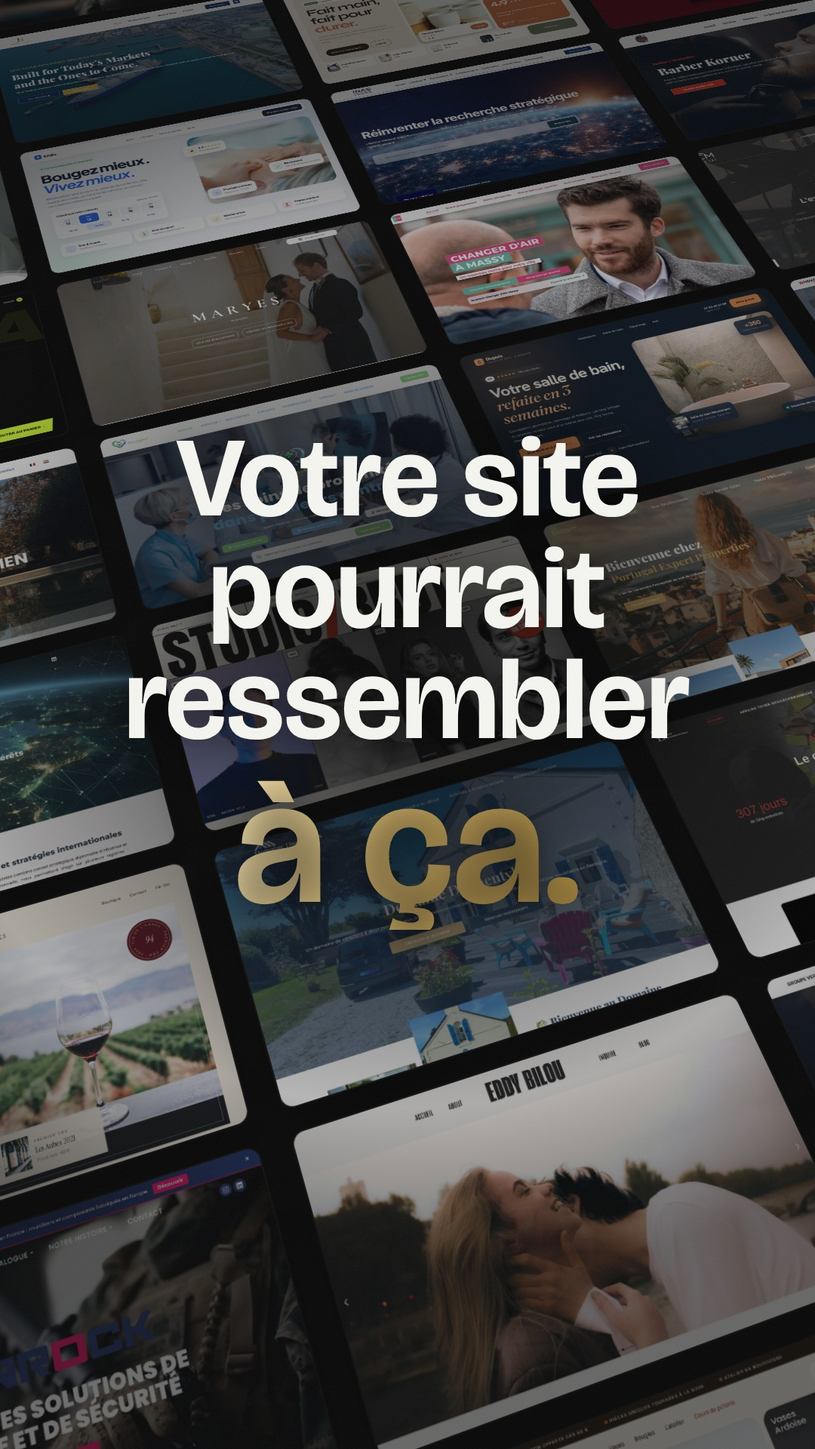
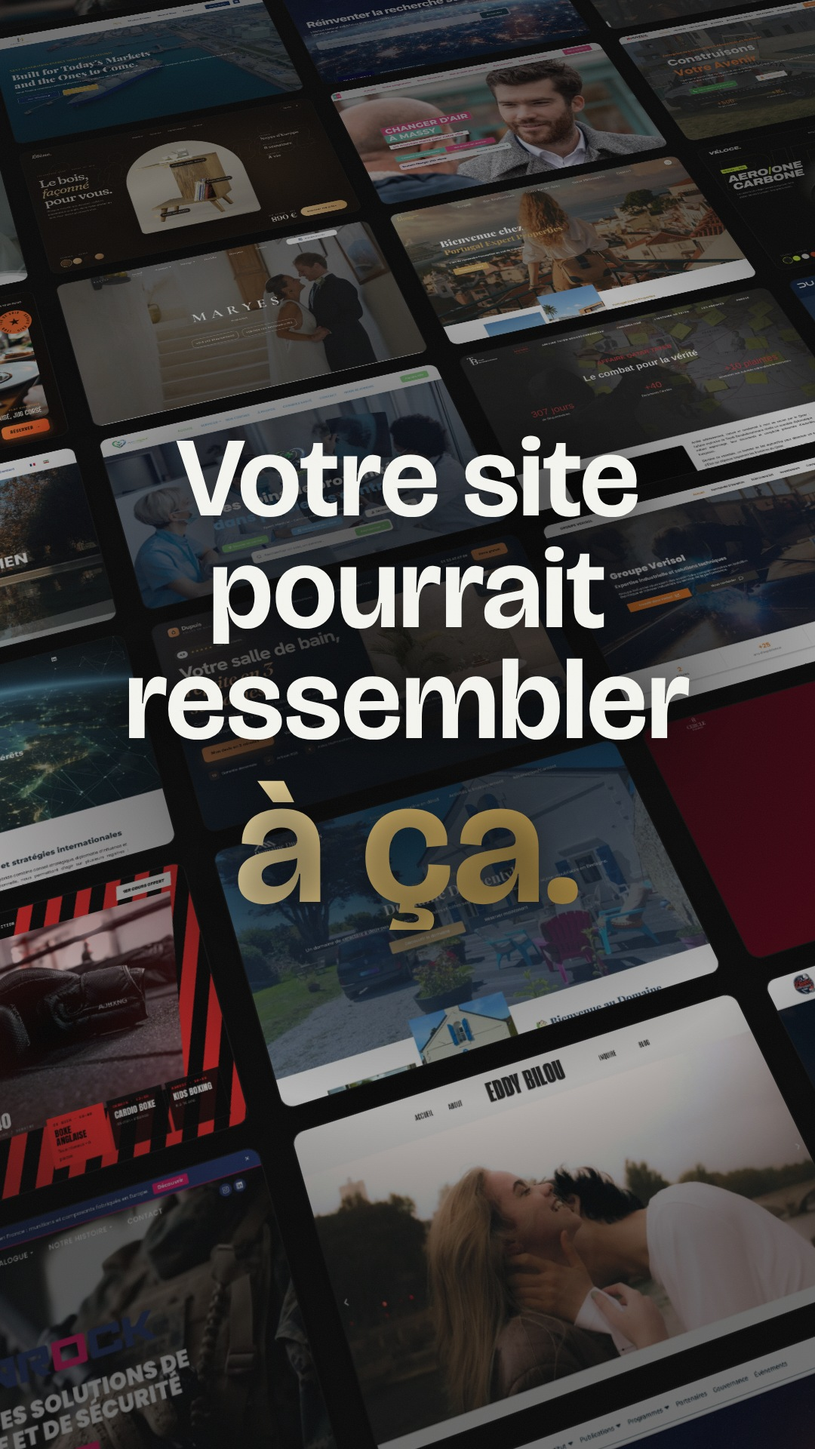
Vidéo réalisations V4 : accroche mur de sites puis 6 focus (Véloce, Monolithe, Valmont, Braise, Uppercut, Ébène)
Claude-Session: https://claude.ai/code/session_01QEecSGPaSS2i4pfHtVUcyd

diff --git a/aurea-media/creations/video-realisations/sites/monolithe.html b/aurea-media/creations/video-realisations/sites/monolithe.html
@@ -1,0 +1,67 @@
+<!doctype html>
+<html lang="fr"><head><meta charset="utf-8"><meta name="viewport" content="width=device-width,initial-scale=1">
+<title>Monolithe · Construction et gros œuvre</title>
+<!-- Concept fictif créé par Aurea Media. Typo : Syncopate (capitales larges) + Barlow + IBM Plex Mono. -->
+<link href="https://fonts.googleapis.com/css2?family=Syncopate:wght@400;700&family=Barlow:wght@400;500;600;700&family=IBM+Plex+Mono:wght@400;500&display=block" rel="stylesheet">
+<style>
+:root{--beton:#0E0F10;--orange:#FF5A1F;--gris:#9AA0A6;--blanc:#F2F1EE}
+*{box-sizing:border-box;margin:0;padding:0}
+body{background:var(--beton);color:var(--blanc);font:400 15px/1.5 Barlow,sans-serif;-webkit-font-smoothing:antialiased;overflow:hidden;height:100vh;position:relative}
+.mono{font-family:"IBM Plex Mono",monospace}
+.fond{position:absolute;inset:0}
+.fond img{width:100%;height:100%;object-fit:cover;object-position:60% 50%;filter:saturate(1.1) contrast(1.05)}
+.fond:after{content:"";position:absolute;inset:0;background:linear-gradient(90deg,rgba(14,15,16,.96) 0%,rgba(14,15,16,.78) 34%,rgba(14,15,16,.12) 62%,rgba(14,15,16,.35) 100%),linear-gradient(0deg,rgba(14,15,16,.9),rgba(14,15,16,0) 30%)}
+.trame{position:absolute;inset:0;background-image:linear-gradient(rgba(255,255,255,.05) 1px,transparent 1px),linear-gradient(90deg,rgba(255,255,255,.05) 1px,transparent 1px);background-size:48px 48px;-webkit-mask-image:linear-gradient(90deg,transparent 40%,#000 70%)}
+nav{position:relative;z-index:3;display:flex;align-items:center;justify-content:space-between;padding:26px 48px;border-bottom:1px solid rgba(242,241,238,.12)}
+.logo{display:flex;align-items:center;gap:14px;font:700 21px/1 Syncopate;letter-spacing:.12em}
+.logo i{width:26px;height:26px;background:var(--orange);clip-path:polygon(0 100%,50% 0,100% 100%)}
+nav ul{display:flex;gap:34px;list-style:none;font:600 13px Barlow;letter-spacing:.16em;text-transform:uppercase;color:#cfd2d5}
+.devis{height:48px;padding:0 22px;background:var(--orange);color:#120700;display:flex;align-items:center;gap:10px;font:700 13px Barlow;letter-spacing:.14em;text-transform:uppercase}
+.contenu{position:relative;z-index:3;padding:70px 48px 0;width:700px}
+.ref{display:flex;align-items:center;gap:12px;font:500 12px "IBM Plex Mono";letter-spacing:.12em;color:var(--orange)}
+.ref:before{content:"";width:40px;height:2px;background:var(--orange)}
+h1{font:700 64px/1.02 Syncopate;letter-spacing:-.01em;text-transform:uppercase;margin:26px 0 26px}
+h1 b{color:var(--orange);font-weight:700}
+.contenu p{font-size:18px;color:#c3c7cb;max-width:500px}
+.actions{display:flex;gap:12px;margin-top:34px}
+.btn{height:60px;padding:0 28px;display:flex;align-items:center;gap:12px;font:700 14px Barlow;letter-spacing:.14em;text-transform:uppercase;background:var(--blanc);color:var(--beton)}
+.btn.l{background:transparent;color:var(--blanc);border:1.5px solid rgba(242,241,238,.4)}
+/* cotes d'architecte posées sur la photo */
+.cote{position:absolute;z-index:2;font:500 12px "IBM Plex Mono";color:var(--blanc);letter-spacing:.08em}
+.cote.h{height:1.5px;background:var(--orange)}.cote.h:before,.cote.h:after{content:"";position:absolute;top:-7px;width:1.5px;height:16px;background:var(--orange)}.cote.h:before{left:0}.cote.h:after{right:0}
+.cote.h span{position:absolute;left:50%;top:-26px;transform:translateX(-50%);background:var(--beton);padding:2px 8px}
+.cote.v{width:1.5px;background:var(--orange)}.cote.v:before,.cote.v:after{content:"";position:absolute;left:-7px;width:16px;height:1.5px;background:var(--orange)}.cote.v:before{top:0}.cote.v:after{bottom:0}
+.cote.v span{position:absolute;top:50%;left:12px;transform:translateY(-50%);background:var(--beton);padding:2px 8px;white-space:nowrap}
+.pt{position:absolute;z-index:3;display:flex;align-items:center;gap:10px;font:500 12px "IBM Plex Mono";letter-spacing:.06em;text-transform:uppercase}
+.pt i{width:18px;height:18px;border:2px solid var(--orange);border-radius:50%;display:grid;place-items:center}
+.pt i:after{content:"";width:6px;height:6px;border-radius:50%;background:var(--orange)}
+.pt span{background:rgba(14,15,16,.85);border:1px solid rgba(242,241,238,.15);padding:6px 10px}
+.bas{position:absolute;z-index:3;left:0;right:0;bottom:0;display:grid;grid-template-columns:repeat(4,1fr) 1.3fr;border-top:1px solid rgba(242,241,238,.14);background:rgba(14,15,16,.7);backdrop-filter:blur(10px)}
+.bas div{padding:20px 28px;border-right:1px solid rgba(242,241,238,.1)}
+.bas small{display:block;font:500 11px "IBM Plex Mono";letter-spacing:.12em;color:var(--gris);text-transform:uppercase}
+.bas b{font:700 30px/1.2 Syncopate}
+.bas .projet{display:flex;align-items:center;gap:14px;border:0}
+.bas .projet img{width:86px;height:56px;object-fit:cover}
+.bas .projet b{font:600 17px Barlow;display:block}
+@media (max-width:600px){
+  nav{padding:16px 18px}nav ul{display:none}.logo{font-size:15px}.devis{height:40px;padding:0 14px;font-size:11px}
+  .fond img{object-position:68% 50%}.fond:after{background:linear-gradient(0deg,rgba(14,15,16,.98) 38%,rgba(14,15,16,.3) 70%,rgba(14,15,16,.6))}
+  .contenu{width:auto;padding:330px 18px 0}h1{font-size:30px;margin:16px 0 14px}.contenu p{font-size:15px}.actions{margin-top:20px}.btn.l{display:none}.btn{height:52px}
+  .cote,.pt{display:none}.bas{grid-template-columns:1fr 1fr}.bas div:nth-child(n+3){display:none}.bas div{padding:14px 18px}.bas b{font-size:20px}
+}
+</style></head><body>
+<div class="fond"><img src="photos/mono-hero.webp" alt=""></div><div class="trame"></div>
+<nav><div class="logo"><i></i>MONOLITHE</div><ul><li>Réalisations</li><li>Savoir-faire</li><li>Process</li><li>Carrières</li></ul><a class="devis">Étude gratuite →</a></nav>
+<div class="cote h" style="left:860px;top:250px;width:520px"><span>18,40 m</span></div>
+<div class="cote v" style="left:1330px;top:300px;height:330px"><span>7,20 m</span></div>
+<div class="pt" style="left:940px;top:420px"><i></i><span>Béton bas carbone</span></div>
+<div class="pt" style="left:1130px;top:560px"><i></i><span>Baies alu 4 m</span></div>
+<div class="pt" style="left:820px;top:640px"><i></i><span>RE2020 · A+</span></div>
+<section class="contenu">
+  <div class="ref">GROS ŒUVRE · MAISONS D'ARCHITECTE · HAUTE-SAVOIE</div>
+  <h1>On bâtit<br>ce qui <b>dure.</b></h1>
+  <p>Terrassement, structure, maçonnerie et clos-couvert. Une seule équipe, un planning tenu et des finitions dignes d'un architecte.</p>
+  <div class="actions"><a class="btn">Lancer mon projet →</a><a class="btn l">Voir 120 chantiers</a></div>
+</section>
+<div class="bas"><div><small>Fondée en</small><b>1998</b></div><div><small>Chantiers livrés</small><b>120+</b></div><div><small>Délais tenus</small><b>97 %</b></div><div><small>Garantie</small><b>10 ans</b></div><div class="projet"><img src="photos/mono-2.webp" alt=""><div><small>Projet en cours · 07/24</small><b>Villa Lumen · Annecy</b></div></div></div>
+</body></html>

diff --git a/aurea-media/creations/video-realisations/sites/ebene.html b/aurea-media/creations/video-realisations/sites/ebene.html
@@ -1,0 +1,59 @@
+<!doctype html>
+<html lang="fr"><head><meta charset="utf-8"><meta name="viewport" content="width=device-width,initial-scale=1">
+<title>Ébène · Atelier d'ébénisterie sur mesure</title>
+<!-- Concept fictif créé par Aurea Media. Typo : Fraunces (variable, « soft ») + Karla + Overpass Mono. -->
+<link href="https://fonts.googleapis.com/css2?family=Fraunces:ital,opsz,wght,SOFT,WONK@0,9..144,300..900,0..100,0..1;1,9..144,300..900,0..100,0..1&family=Karla:wght@400;500;700&family=Overpass+Mono:wght@400;600&display=block" rel="stylesheet">
+<style>
+:root{--noyer:#16100C;--noyer2:#22180F;--laiton:#C99A5B;--laiton2:#E9C48A;--creme:#F1E7D8;--mute:#9C8B78}
+*{box-sizing:border-box;margin:0;padding:0}
+body{background:radial-gradient(1000px 700px at 62% 48%,#3a2717 0%,var(--noyer) 62%);color:var(--creme);font:400 15px/1.55 Karla,sans-serif;-webkit-font-smoothing:antialiased;overflow:hidden;height:100vh;position:relative}
+.fr{font-family:Fraunces,serif;font-variation-settings:"SOFT" 100,"WONK" 1}
+.geant{position:absolute;left:0;right:0;top:120px;text-align:center;font:900 330px/.8 Fraunces;font-variation-settings:"SOFT" 100,"WONK" 1;font-style:italic;color:transparent;-webkit-text-stroke:1.5px rgba(201,154,91,.28);white-space:nowrap}
+nav{position:relative;z-index:4;display:flex;align-items:center;justify-content:space-between;padding:26px 52px}
+.logo{font:600 32px/1 Fraunces;font-variation-settings:"SOFT" 100,"WONK" 1;font-style:italic;letter-spacing:-.02em}
+.logo span{color:var(--laiton)}
+nav ul{display:flex;gap:32px;list-style:none;font:500 14px Karla;color:#d6c8b4}
+.panier{font:600 13px "Overpass Mono";border:1px solid rgba(201,154,91,.5);padding:10px 16px;border-radius:999px}
+.meuble{position:absolute;z-index:2;left:50%;top:140px;width:560px;height:620px;transform:translateX(-50%);border-radius:300px 300px 24px 24px;overflow:hidden;box-shadow:0 60px 120px rgba(0,0,0,.6),0 0 0 1px rgba(201,154,91,.3)}
+.meuble img{width:100%;height:100%;object-fit:cover;filter:sepia(.25) saturate(1.1) brightness(.98)}
+.meuble:after{content:"";position:absolute;inset:0;background:linear-gradient(160deg,rgba(255,220,170,.18),transparent 40%,rgba(22,16,12,.35))}
+.pt{position:absolute;z-index:3;display:flex;align-items:center;gap:10px;font:600 12px "Overpass Mono";letter-spacing:.04em}
+.pt i{width:14px;height:14px;border-radius:50%;background:var(--laiton2);box-shadow:0 0 0 6px rgba(233,196,138,.22),0 0 18px var(--laiton2)}
+.pt span{background:rgba(22,16,12,.85);border:1px solid rgba(201,154,91,.35);padding:6px 11px;border-radius:999px}
+.gauche{position:absolute;z-index:3;left:52px;top:190px;width:330px}
+.sur{font:600 11px "Overpass Mono";letter-spacing:.22em;color:var(--laiton)}
+h1{font:500 74px/.95 Fraunces;font-variation-settings:"SOFT" 100,"WONK" 1;letter-spacing:-.03em;margin:20px 0 18px}
+h1 i{color:var(--laiton2);font-weight:400}
+.gauche p{color:#cbbba6;font-size:16px}
+.specs{position:absolute;z-index:3;right:52px;top:200px;width:260px}
+.spec{border-top:1px solid rgba(201,154,91,.25);padding:14px 0}
+.spec small{display:block;font:600 11px "Overpass Mono";letter-spacing:.14em;color:var(--mute);text-transform:uppercase}
+.spec b{font:500 26px/1.2 Fraunces;font-variation-settings:"SOFT" 100}
+.bas{position:absolute;z-index:3;left:52px;right:52px;bottom:34px;display:flex;align-items:flex-end;justify-content:space-between}
+.essences small{font:600 11px "Overpass Mono";letter-spacing:.14em;color:var(--mute)}
+.essences div{display:flex;gap:10px;margin-top:10px}
+.essences i{width:40px;height:40px;border-radius:50%;background-size:cover}
+.essences i.on{outline:2px solid var(--laiton2);outline-offset:3px}
+.achat{display:flex;align-items:center;gap:22px}
+.prix{text-align:right}.prix small{display:block;font:600 11px "Overpass Mono";color:var(--mute);letter-spacing:.1em}.prix b{font:500 44px/1 Fraunces}
+.go{height:64px;padding:0 30px;border-radius:999px;background:linear-gradient(100deg,var(--laiton2),var(--laiton));color:#1d1208;display:flex;align-items:center;gap:12px;font:700 15px Karla;letter-spacing:.04em}
+@media (max-width:600px){
+  nav{padding:16px 18px}nav ul{display:none}.logo{font-size:26px}
+  .geant{font-size:130px;top:90px}
+  .meuble{top:270px;width:300px;height:330px;border-radius:160px 160px 18px 18px}.pt{display:none}
+  .gauche{left:20px;right:20px;top:80px;width:auto}h1{font-size:44px;margin:12px 0 0}.gauche p{display:none}
+  .specs{left:20px;right:20px;top:auto;bottom:110px;width:auto;display:flex;gap:16px}.spec{flex:1;padding:8px 0}.spec b{font-size:19px}.spec:nth-child(3){display:none}
+  .bas{left:20px;right:20px;bottom:22px}.essences{display:none}.achat{width:100%;justify-content:space-between}.prix b{font-size:30px}.go{height:54px;padding:0 20px;font-size:14px}
+}
+</style></head><body>
+<div class="geant">fait main</div>
+<nav><div class="logo">Ébène<span>.</span></div><ul><li>Mobilier</li><li>Cuisines</li><li>Bibliothèques</li><li>L'atelier</li></ul><div class="panier">DEVIS · 0</div></nav>
+<div class="meuble"><img src="photos/ebene-hero.webp" alt=""></div>
+<div class="pt" style="left:640px;top:300px"><i></i><span>Plateau noyer massif</span></div>
+<div class="pt" style="left:770px;top:470px"><i></i><span>Tenon-mortaise</span></div>
+<div class="pt" style="left:520px;top:640px"><i></i><span>Huile naturelle</span></div>
+<div class="gauche"><div class="sur">COLLECTION 2026 · PIÈCE Nº 014</div><h1>Le bois,<br><i>façonné</i><br>pour vous.</h1><p>Chaque meuble est dessiné, taillé et assemblé à la main dans notre atelier du Jura. Pour durer plusieurs vies.</p></div>
+<div class="specs"><div class="spec"><small>Essence</small><b>Noyer d'Europe</b></div><div class="spec"><small>Délai atelier</small><b>6 semaines</b></div><div class="spec"><small>Garantie</small><b>À vie</b></div></div>
+<div class="bas"><div class="essences"><small>ESSENCE · NOYER</small><div><i class="on" style="background:linear-gradient(135deg,#6b4428,#3a2414)"></i><i style="background:linear-gradient(135deg,#d9b98a,#a7804f)"></i><i style="background:linear-gradient(135deg,#2a1d14,#120c08)"></i><i style="background:linear-gradient(135deg,#c79a6a,#8a5a35)"></i></div></div>
+<div class="achat"><div class="prix"><small>SUR MESURE · DÈS</small><b>890 €</b></div><a class="go">Dessiner ma pièce →</a></div></div>
+</body></html>

diff --git a/aurea-media/creations/video-realisations/sites/valmont.html b/aurea-media/creations/video-realisations/sites/valmont.html
@@ -1,0 +1,57 @@
+<!doctype html>
+<html lang="fr"><head><meta charset="utf-8"><meta name="viewport" content="width=device-width,initial-scale=1">
+<title>Valmont Avocats · Cabinet d'affaires à Paris</title>
+<!-- Concept fictif créé par Aurea Media. Typo : Bodoni Moda (très grand) + Inter + DM Mono. -->
+<link href="https://fonts.googleapis.com/css2?family=Bodoni+Moda:ital,opsz,wght@0,6..96,400;0,6..96,500;1,6..96,400&family=Inter:wght@400;500;600&family=DM+Mono:wght@400;500&display=block" rel="stylesheet">
+<style>
+:root{--noir:#0B0A09;--or:#D4B06A;--or2:#F1DDA8;--creme:#EFE8DA;--mute:#8E877C}
+*{box-sizing:border-box;margin:0;padding:0}
+body{background:var(--noir);color:var(--creme);font:400 15px/1.6 Inter,sans-serif;-webkit-font-smoothing:antialiased;overflow:hidden;height:100vh;position:relative}
+.statue{position:absolute;right:0;top:0;bottom:0;width:58%}
+.statue img{width:100%;height:100%;object-fit:cover;object-position:40% 30%;filter:grayscale(1) contrast(1.25) brightness(.85) sepia(.35)}
+.statue:after{content:"";position:absolute;inset:0;background:linear-gradient(90deg,var(--noir) 0%,rgba(11,10,9,.55) 30%,rgba(11,10,9,0) 60%),linear-gradient(0deg,var(--noir),rgba(11,10,9,0) 35%),radial-gradient(ellipse at 55% 35%,rgba(212,176,106,.25),transparent 60%);mix-blend-mode:normal}
+.rayon{position:absolute;right:220px;top:-200px;width:340px;height:1300px;transform:rotate(18deg);background:linear-gradient(90deg,transparent,rgba(241,221,168,.13),transparent);filter:blur(10px)}
+nav{position:relative;z-index:3;display:flex;align-items:center;justify-content:space-between;padding:30px 60px}
+.logo{display:flex;align-items:center;gap:16px}
+.logo .m{width:46px;height:46px;border:1px solid var(--or);display:grid;place-items:center;font:400 26px "Bodoni Moda";font-style:italic;color:var(--or)}
+.logo b{display:block;font:500 20px "Bodoni Moda";letter-spacing:.28em}
+.logo small{font:500 10px "DM Mono";letter-spacing:.3em;color:var(--mute)}
+nav ul{display:flex;gap:36px;list-style:none;font:500 13px Inter;letter-spacing:.1em;text-transform:uppercase;color:#c9c1b3}
+.rdv{height:50px;padding:0 24px;border:1px solid var(--or);color:var(--or2);display:flex;align-items:center;gap:10px;font:500 13px Inter;letter-spacing:.14em;text-transform:uppercase}
+.contenu{position:relative;z-index:3;padding:56px 60px 0;width:780px}
+.sur{font:500 12px "DM Mono";letter-spacing:.3em;color:var(--or)}
+h1{font:400 128px/.88 "Bodoni Moda";letter-spacing:-.035em;margin:26px 0 30px}
+h1 i{color:var(--or2)}
+.contenu p{font-size:18px;color:#b9b1a4;max-width:470px}
+.actions{display:flex;align-items:center;gap:28px;margin-top:36px}
+.btn{height:62px;padding:0 32px;background:linear-gradient(100deg,var(--or2),var(--or));color:#1a1208;display:flex;align-items:center;gap:12px;font:600 14px Inter;letter-spacing:.14em;text-transform:uppercase}
+.tel{font:500 14px "DM Mono";color:var(--creme);letter-spacing:.08em}.tel small{display:block;color:var(--mute);font-size:11px;letter-spacing:.2em}
+.expertises{display:none}
+.expertises div{display:flex;gap:16px;align-items:baseline;padding:16px 0;border-bottom:1px solid rgba(212,176,106,.22)}
+.expertises span{font:500 12px "DM Mono";color:var(--or)}
+.expertises b{font:400 24px "Bodoni Moda"}
+.expertises div:first-child{border-top:1px solid rgba(212,176,106,.22)}
+.bas{position:absolute;z-index:3;left:60px;right:60px;bottom:40px;display:flex;justify-content:space-between;align-items:flex-end}
+.chiffres{display:flex;gap:56px}
+.chiffres b{display:block;font:400 52px/1 "Bodoni Moda";color:var(--or2)}
+.chiffres small{font:500 11px "DM Mono";letter-spacing:.2em;color:var(--mute);text-transform:uppercase}
+.sceau{width:120px;height:120px}
+@media (max-width:600px){
+  nav{padding:18px}nav ul,.rdv{display:none}.logo b{font-size:15px}
+  .statue{width:100%;height:440px;bottom:auto}.statue:after{background:linear-gradient(0deg,var(--noir) 5%,rgba(11,10,9,0) 60%)}
+  .contenu{width:auto;padding:300px 20px 0}h1{font-size:68px;margin:14px 0 16px}.contenu p{font-size:15px}.tel{display:none}.btn{height:54px}
+  .expertises,.sceau{display:none}.bas{left:20px;right:20px;bottom:24px}.chiffres{display:none}.sceau{display:none}
+}
+</style></head><body>
+<div class="statue"><img src="photos/valmont-hero.webp" alt=""></div><div class="rayon"></div>
+<nav><div class="logo"><div class="m">V</div><div><b>VALMONT</b><small>AVOCATS · PARIS VIII</small></div></div><ul><li>Expertises</li><li>Le cabinet</li><li>Honoraires</li><li>Publications</li></ul><a class="rdv">Consultation →</a></nav>
+<section class="contenu">
+  <div class="sur">DROIT DES AFFAIRES · CONTENTIEUX · PATRIMOINE</div>
+  <h1>Défendre<br>ce qui vous<br>est <i>cher.</i></h1>
+  <p>Un cabinet à taille humaine pour les dirigeants et les familles. Une stratégie claire, des honoraires annoncés, un avocat qui décroche.</p>
+  <div class="actions"><a class="btn">Prendre rendez-vous</a><div class="tel">01 40 00 00 00<small>RÉPONSE SOUS 24 H</small></div></div>
+</section>
+<div class="expertises"><div><span>01</span><b>Droit des affaires</b></div><div><span>02</span><b>Contentieux</b></div><div><span>03</span><b>Droit immobilier</b></div><div><span>04</span><b>Famille &amp; patrimoine</b></div></div>
+<div class="bas"><div class="chiffres"><div><b>25</b><small>ans de barreau</small></div><div><b>1 400</b><small>dossiers suivis</small></div><div><b>6</b><small>associés</small></div></div>
+<svg class="sceau" viewBox="0 0 200 200"><circle cx="100" cy="100" r="96" fill="none" stroke="#D4B06A" stroke-width="1.5"/><defs><path id="c" d="M100,100 m-72,0 a72,72 0 1,1 144,0 a72,72 0 1,1 -144,0"/></defs><text fill="#D4B06A" font-family="DM Mono" font-size="14" letter-spacing="5"><textPath href="#c">BARREAU DE PARIS · DEPUIS 2001 · </textPath></text><text x="100" y="118" text-anchor="middle" fill="#F1DDA8" font-family="Bodoni Moda" font-style="italic" font-size="52">V</text></svg></div>
+</body></html>

diff --git a/aurea-media/creations/video-realisations/video.html b/aurea-media/creations/video-realisations/video.html
@@ -44,20 +44,18 @@ html,body{width:1080px;height:1920px;overflow:hidden;background:#0A0A0A}
 const C1 = '../../reseaux-sociaux/carrousel/concepts/captures/', C2 = 'sites/captures/';
 // nom, secteur, typographie, captures, fond, accent, texte clair (1) ou foncé (0), mise en scène
 const SITES = [
-  ['Halo', 'Banque des indépendants', 'Unbounded · Inter', C2 + 'halo', '#0B0820', '#8B6CFF', 1, 'duo'],
-  ['Maison Sorel', "Architecte d'intérieur", 'Bodoni Moda · Jost', C1 + 'maison-sorel', '#E9E2D6', '#9A6B43', 0, 'pleine'],
-  ['Braise', 'Restaurant gastronomique', 'Big Shoulders · Inter Tight', C1 + 'braise', '#140C08', '#FF6B2C', 1, 'tel'],
   ['Véloce', 'Vélos en carbone · e-shop', 'Archivo Expanded · Mono', C2 + 'veloce', '#0A0A0A', '#D7FF3A', 1, 'duo'],
-  ['Domaine des Aubes', 'Vins de Bourgogne', 'Instrument Serif', C2 + 'domaine-des-aubes', '#5A1624', '#E8C88A', 1, 'tranches'],
-  ['Kinée', 'Cabinet de kinésithérapie', 'Plus Jakarta Sans', C2 + 'kinee', '#E3EDFF', '#2563EB', 0, 'pleine'],
-  ['Studio Brut', 'Photographe portrait', 'Anton · Space Mono', C2 + 'studio-brut', '#E8E5DD', '#FF3B1F', 0, 'tel'],
-  ['Terre de Grès', 'Céramique artisanale · e-shop', 'Syne · Manrope', C1 + 'terre-de-gres', '#EFE6D8', '#C0663A', 0, 'tranches'],
+  ['Monolithe', 'Construction · gros œuvre', 'Syncopate · Barlow', C2 + 'monolithe', '#101214', '#FF5A1F', 1, 'pleine'],
+  ['Valmont Avocats', "Cabinet d'avocats d'affaires", 'Bodoni Moda · DM Mono', C2 + 'valmont', '#0B0A09', '#D4B06A', 1, 'tel'],
+  ['Braise', 'Restaurant gastronomique', 'Big Shoulders · Inter Tight', C1 + 'braise', '#140C08', '#FF6B2C', 1, 'tranches'],
+  ['Uppercut', 'Club de boxe', 'Anton · Space Mono', C2 + 'uppercut', '#070707', '#FF2B2B', 1, 'duo'],
+  ['Ébène', 'Ébéniste · mobilier sur mesure', 'Fraunces · Karla', C2 + 'ebene', '#16100C', '#E9C48A', 1, 'pleine'],
 ];
 const B = .45;                                   // un temps à 133 BPM
-const HF = 2.0, HE = 3.6;                                    // accroche : mur de sites, puis rafale
-const BA0 = HE, W1 = 4.4, W2 = 4.95, W3 = 5.3, W4 = 5.6, W5 = 5.95, BAE = 7.4;   // avant / après
+const HF = 99, HE = 2.4;                                    // accroche : mur de sites, puis rafale
+const BA0 = HE, W1 = 90, W2 = 91, W3 = 92, W4 = 93, W5 = 94, BAE = HE;   // avant / après
 const R0 = BAE;                                              // recommandations
-const TT = BAE, T0 = 10.2, DS = 1.8, TMUR = T0 + SITES.length * DS, TFIN = TMUR, DUREE = TFIN + 6;
+const TT = BAE, T0 = HE, DS = 2.7, TMUR = T0 + SITES.length * DS, TFIN = TMUR, DUREE = TFIN + 6;
 const CLIC = TFIN + 3.55;
 const $ = id => document.getElementById(id);
 const clamp = (x, a = 0, b = 1) => Math.min(b, Math.max(a, x));
@@ -186,7 +184,7 @@ function scnC(t) {
   // étiquette lettre par lettre
   $('nom').innerHTML = lettres(nom, t, T0 + i * DS + .1, .03);
   $('sect').textContent = sect; $('typo').textContent = typo;
-  $('cpt').innerHTML = `<b style="color:${acc}">${String(i + 1).padStart(2, '0')}</b> / 08`;
+  $('cpt').innerHTML = `<b style="color:${acc}">${String(i + 1).padStart(2, '0')}</b> / 06`;
   $('bp').style.cssText = `display:block;height:100%;width:${((i + u) / SITES.length) * 100}%;background:${acc}`;
 }
 
@@ -254,14 +252,14 @@ const PAL = ['#8B6CFF', '#FF6B2C', '#D7FF3A', '#2563EB', '#C9A961', '#FF3B1F', '
 function scnH(t) {
   const v = 1300 * t + 650 * t * t;   // le mur accélère
   for (let c = 0; c < NCOL; c++) $('hc' + c).style.transform = `translateY(${-(((c % 2 ? v : -v) * (1 + c * .08) % (NPAR * HAUT)) + NPAR * HAUT) % (NPAR * HAUT)}px)`;
-  const raf = t >= HF, zr = E.io(prog(t, HF - .15, .35));
+  const raf = t >= HF, zr = E.io(prog(t, HE - .45, .45));
   $('hMur').style.transform = `translate(-50%,-50%) rotateX(32deg) rotateZ(-18deg) scale(${1 + .06 * t + zr * .5})`;
   $('hMur').style.filter = `blur(${zr * 10}px) brightness(${1 - zr * .5})`;
   // phrase d'accroche : lisible dès la première image, « à ça. » claque sur le premier temps
   const pun = Math.exp(-Math.max(0, t - .45) * 6) * (t > .45 ? 1 : 0);
   ['h1', 'h2', 'h3'].forEach((id, i) => $(id).style.cssText = `display:inline-block;transform:scale(${1 + .015 * Math.sin(t * 4 + i)})`);
   const k4 = prog(t, -.25, .25); $('h4').style.cssText = `display:inline-block;opacity:${clamp(k4 * 3)};transform:scale(${mix(2.6, 1, E.out(k4)) + pun * .08}) rotate(${(1 - E.back(k4)) * -8}deg);filter:blur(${(1 - clamp(k4 * 2)) * 14}px)`;
-  const sortTxt = prog(t, HF - .05, .2); $('hTxt').style.cssText += `;opacity:${1 - sortTxt};transform:translateY(${-sortTxt * 140}px) scale(${1 - sortTxt * .1})`;
+  const sortTxt = prog(t, HE - .35, .25); $('hTxt').style.cssText += `;opacity:${1 - sortTxt};transform:translateY(${-sortTxt * 140}px) scale(${1 - sortTxt * .1})`;
   $('hVoile').style.opacity = 1 - zr * .3;
   // rafale de sites coupés en rythme, avec compteur jusqu'à 45+
   const P = .148, j = Math.floor((t - HF) / P), uj = ((t - HF) % P) / P;
@@ -315,7 +313,7 @@ function rendre(t) {
   const coupes = SITES.map((s, i) => [T0 + i * DS, s[5]]);
   let vol = null; for (const [c, col] of coupes) if (Math.abs(t - c) < .16) vol = [c, col];
   if (vol) { const k = (t - vol[0] + .16) / .32; $('volet').style.cssText = `display:block;left:0;background:${vol[1]};transform:translateX(${mix(1200, -2800, E.io(k))}px) skewX(-14deg)`; } else $('volet').style.display = 'none';
-  let f = 0; for (const c of [HF, HE, W5, TFIN]) f = Math.max(f, clamp(1 - Math.abs(t - c) / .1) * (c === W5 || c === HE ? .75 : .5));
+  let f = 0; for (const c of [HE, TFIN]) f = Math.max(f, clamp(1 - Math.abs(t - c) / .1) * .6);
   $('flash').style.opacity = f;
   $('voile').style.background = t > DUREE - .5 ? `rgba(0,0,0,${clamp((t - DUREE + .5) / .5)})` : 'transparent';
 }

diff --git a/aurea-media/creations/video-realisations/sites/uppercut.html b/aurea-media/creations/video-realisations/sites/uppercut.html
@@ -1,0 +1,54 @@
+<!doctype html>
+<html lang="fr"><head><meta charset="utf-8"><meta name="viewport" content="width=device-width,initial-scale=1">
+<title>Uppercut · Club de boxe · Lyon</title>
+<!-- Concept fictif créé par Aurea Media. Typo : Anton (penchée) + Rubik + Space Mono. -->
+<link href="https://fonts.googleapis.com/css2?family=Anton&family=Rubik:wght@400;500;700;800&family=Space+Mono:wght@400;700&display=block" rel="stylesheet">
+<style>
+:root{--noir:#070707;--rouge:#FF2B2B;--blanc:#F5F3F0;--gris:#8D8A86}
+*{box-sizing:border-box;margin:0;padding:0}
+body{background:var(--noir);color:var(--blanc);font:400 15px/1.5 Rubik,sans-serif;-webkit-font-smoothing:antialiased;overflow:hidden;height:100vh;position:relative}
+.bandes{position:absolute;right:-200px;top:-100px;width:900px;height:1300px;transform:rotate(18deg);background:repeating-linear-gradient(90deg,var(--rouge) 0 46px,transparent 46px 92px);opacity:.9}
+.gants{position:absolute;right:60px;top:90px;width:820px;height:640px;clip-path:polygon(12% 0,100% 0,88% 100%,0 100%);overflow:hidden;box-shadow:0 0 0 1px #222}
+.gants img{width:100%;height:100%;object-fit:cover;object-position:45% 50%;filter:contrast(1.25) brightness(1.15)}
+.gants:after{content:"";position:absolute;inset:0;background:radial-gradient(ellipse at 45% 55%,rgba(255,43,43,0),rgba(255,43,43,.25) 80%)}
+nav{position:relative;z-index:4;display:flex;align-items:center;justify-content:space-between;padding:22px 48px}
+.logo{font:400 34px/1 Anton;letter-spacing:.02em;transform:skewX(-10deg);display:flex;align-items:center;gap:6px}
+.logo b{background:var(--rouge);color:var(--noir);padding:0 8px;font-weight:400}
+nav ul{display:flex;gap:30px;list-style:none;font:700 13px "Space Mono";letter-spacing:.08em;text-transform:uppercase}
+nav ul li:first-child{color:var(--rouge)}
+.essai{height:50px;padding:0 22px;background:var(--blanc);color:var(--noir);display:flex;align-items:center;font:800 14px Rubik;text-transform:uppercase;transform:skewX(-10deg)}
+h1{position:absolute;z-index:3;left:44px;top:140px;font:400 196px/.84 Anton;text-transform:uppercase;transform:skewX(-10deg);letter-spacing:-.01em}
+h1 span{display:block}
+h1 .c{color:transparent;-webkit-text-stroke:3px var(--blanc)}
+h1 .r{color:var(--rouge)}
+.txt{position:absolute;z-index:3;left:56px;top:660px;width:430px}
+.txt p{font-size:17px;color:#c9c6c2}
+.cta{display:flex;align-items:center;gap:16px;margin-top:22px}
+.go{height:64px;padding:0 30px;background:var(--rouge);color:var(--noir);display:flex;align-items:center;gap:12px;font:800 16px Rubik;text-transform:uppercase;transform:skewX(-10deg);box-shadow:8px 8px 0 var(--blanc)}
+.cta small{font:400 12px "Space Mono";color:var(--gris)}
+.planning{position:absolute;z-index:4;right:48px;bottom:36px;display:flex;gap:10px}
+.cours{background:rgba(7,7,7,.88);border:1px solid #2a2a2a;padding:14px 16px;width:170px}
+.cours small{display:block;font:700 11px "Space Mono";letter-spacing:.1em;color:var(--rouge)}
+.cours b{display:block;font:400 26px/1 Anton;text-transform:uppercase;margin:6px 0 4px}
+.cours span{font-size:13px;color:var(--gris)}
+.cours.on{background:var(--rouge);border-color:var(--rouge);color:var(--noir)}.cours.on small,.cours.on span{color:var(--noir)}
+.stat{position:absolute;z-index:4;left:560px;top:650px;display:flex;gap:30px}
+.stat b{display:block;font:400 54px/1 Anton}.stat small{font:700 11px "Space Mono";color:var(--gris);letter-spacing:.1em}
+@media (max-width:600px){
+  nav{padding:16px}nav ul{display:none}.logo{font-size:26px}.essai{height:40px;padding:0 14px;font-size:12px}
+  .bandes{right:-300px;width:600px}
+  .gants{left:18px;right:18px;top:340px;width:auto;height:280px}
+  h1{font-size:104px;left:20px;top:80px}
+  .txt{left:20px;right:20px;top:640px;width:auto}.txt p{font-size:14px}.cta small{display:none}.go{height:54px}
+  .stat{display:none}.planning{left:20px;right:20px;bottom:auto;top:560px}.cours{width:auto;flex:1;padding:8px 10px}.cours b{font-size:18px}.cours span{display:none}.cours:nth-child(3){display:none}
+}
+</style></head><body>
+<div class="bandes"></div>
+<div class="gants"><img src="photos/uppercut-hero.webp" alt=""></div>
+<nav><div class="logo">UPPER<b>CUT</b></div><ul><li>Cours</li><li>Coachs</li><li>Tarifs</li><li>Compétition</li></ul><a class="essai">1er cours offert</a></nav>
+<h1><span>Frappe</span><span class="c">plus</span><span class="r">fort.</span></h1>
+<div class="txt"><p>Boxe anglaise, cardio-boxe et préparation physique. Débutants bienvenus, champions entraînés. Un club, une famille.</p>
+  <div class="cta"><a class="go">Réserver mon essai →</a><small>SANS ENGAGEMENT</small></div></div>
+<div class="stat"><div><b>12</b><small>COACHS DIPLÔMÉS</small></div><div><b>40</b><small>COURS / SEMAINE</small></div></div>
+<div class="planning"><div class="cours on"><small>CE SOIR · 19:00</small><b>Boxe anglaise</b><span>Tous niveaux · 6 places</span></div><div class="cours"><small>DEMAIN · 12:30</small><b>Cardio boxe</b><span>45 min · intense</span></div><div class="cours"><small>SAMEDI · 10:00</small><b>Kids boxing</b><span>8 à 14 ans</span></div></div>
+</body></html>

diff --git a/aurea-media/creations/video-realisations/son.py b/aurea-media/creations/video-realisations/son.py
@@ -7,13 +7,11 @@ import wave
 from pathlib import Path
 import numpy as np
 
-SR = 48000; DUREE = 30.6; N = int(DUREE * SR)
+SR = 48000; DUREE = 24.6; N = int(DUREE * SR)
 ICI = Path(__file__).resolve().parent
 rng = np.random.default_rng(7)
-HF, HE = 2.0, 3.6
-BA0, W1, W2, W3, W4, W5, BAE = HE, 4.4, 4.95, 5.3, 5.6, 5.95, 7.4
-R0 = BAE
-T0, DS, NS = 10.2, 1.8, 8
+HE = 2.4
+T0, DS, NS = HE, 2.7, 6
 TMUR = T0 + NS * DS; TFIN = TMUR; CLIC = TFIN + 3.55
 B = .45   # un temps à 133 BPM
 L = np.zeros(N); R = np.zeros(N)
@@ -81,56 +79,32 @@ def glitch(d=.3, g=1.):
     t = X(d); s = np.sign(np.sin(2 * np.pi * 180 * t * (1 + 3 * (np.floor(t * 40) % 3)))) * .3
     return s * (np.floor(t * 30) % 2) * g
 
-# ================= H. ACCROCHE (0 → 3,6 s) : énergie immédiate =================
+# ================= H. ACCROCHE (0 → 2,4 s) : mur de sites, énergie immédiate =================
 GRILLE = [(57, [57, 60, 64]), (53, [53, 57, 60]), (48, [55, 60, 64]), (55, [55, 59, 62])]   # la m · fa · do · sol
 ajoute(impact(.9), 0); ajoute(cloche(81, .5), 0)
-for k in range(int(HF / B) + 1):                       # groove dès la première image
+for k in range(int(HE / B) + 1):
     tk = k * B
-    if tk >= HF: break
+    if tk >= HE - .01: break
     ajoute(kick(1.), tk); ajoute(sous_basse([45, 41][(k // 4) % 2] - 12, B * .9, .9), tk)
     if k % 2: ajoute(clap(1.), tk)
     for h in range(2): ajoute(hat(1 if h else .6), tk + h * B / 2, pan=.35)
-ajoute(nappe([57, 60, 64], HF, .5, 3500), 0)
-ajoute(whoosh(.5, 300, 7000, .8), .2)                   # « à ça. »
-ajoute(montee(.6, .7), HF - .6)
-P = .148                                                  # rafale : un site par coupe, un « tic » par site
-for j in range(int((HE - HF) / P)):
-    tj = HF + j * P; ajoute(tic(1.2), tj, pan=(-.5 if j % 2 else .5)); ajoute(pluck(69 + [0, 3, 7, 10, 12, 15][j % 6], .45), tj, pan=(.3 if j % 2 else -.3))
-    if j % 2 == 0: ajoute(kick(.8), tj)
-ajoute(sous_basse(33, HE - HF, .7), HF)
-ajoute(impact(.8), HF + 1.42); ajoute(cloche(88, .5), HF + 1.42)       # « 45+ »
-
-# ================= A. AVANT / APRÈS (3,6 → 7,4 s) =================
-ajoute(whoosh(.4, 6000, 400, .8), BA0 - .05)
-for k in range(int((W1 - BA0) / (B / 2))): ajoute(tic(.8), BA0 + k * B / 2, pan=.3)
-for i, a in enumerate((.1, .3, .5)): ajoute(glitch(.1, .35), BA0 + a, pan=-.3 + i * .3)                # pastilles « ✕ »
-ajoute(whoosh(.55, 300, 7000, 1.), W1 - .05)                                                               # balayage
-ajoute(whoosh(.35, 6000, 900, .6), W2); ajoute(tic(1.), W3); ajoute(whoosh(.35, 500, 6000, .7), W4)
-ajoute(impact(1.), W5); ajoute(nappe([57, 60, 64, 69], BAE - W5, .5, 4500), W5)
-for i, n in enumerate([76, 79, 84]): ajoute(cloche(n, .45), W5 - .1 + i * .2, pan=-.4 + i * .4)
-for k in range(int((BAE - W5) / B)): ajoute(kick(.85), W5 + k * B); ajoute(sous_basse(33, B * .9, .6), W5 + k * B); ajoute(hat(.6), W5 + k * B + B / 2)
-
-# ================= R. RECOMMANDATIONS (7,4 → 10,2 s) =================
-ajoute(whoosh(.4, 400, 5000, .6), R0 - .1); ajoute(nappe([53, 57, 60, 64], T0 - R0, .6, 4000), R0)
-for k in range(5): ajoute(cloche(76 + [0, 2, 4, 7, 9][k], .5), R0 + .7 + k * .13, pan=-.5 + k * .25)    # étoiles
-ajoute(impact(.5), R0 + 1.42)
-for i in range(3): ajoute(pluck(81 + i * 2, .5), R0 + 1.5 + i * .15)
-for k in range(int((T0 - R0) / B)): ajoute(kick(.7) if k % 2 == 0 else hat(.7), R0 + k * B)
-ajoute(montee(.7, .8), T0 - .7)
+ajoute(nappe([57, 60, 64], HE, .5, 3500), 0)
+ajoute(whoosh(.5, 300, 7000, .8), 0)                    # « à ça. »
+ajoute(montee(.9, .9), HE - .9); ajoute(whoosh(.5, 400, 8000, .8), HE - .4)
 
 # ================= C. DÉFILÉ DES SITES (4,5 → 20,5 s) : groove =================
 for s in range(NS):
     t0 = T0 + s * DS; rac, acc = GRILLE[s % 4]
     ajoute(whoosh(.42, 400, 6000, .9), t0 - .3, pan=(-1) ** s * .4)                             # passage d'un site à l'autre
     ajoute(nappe(acc, DS, .55, 3200), t0)
-    for k in range(4):
+    for k in range(6):
         tk = t0 + k * B
         ajoute(kick(1.), tk)
         if k % 2 == 1: ajoute(clap(1.), tk)
         ajoute(sous_basse(rac - 24, B * .9, .9), tk)
         for h in range(2): ajoute(hat(1 if h else .6), tk + h * B / 2, pan=.35)
     arp = [acc[0] + 12, acc[1] + 12, acc[2] + 12, acc[1] + 12]
-    for k in range(8): ajoute(pluck(arp[k % 4], .55), t0 + k * B / 2, pan=(-.4 if k % 2 else .4))
+    for k in range(12): ajoute(pluck(arp[k % 4], .55), t0 + k * B / 2, pan=(-.4 if k % 2 else .4))
 ajoute(cloche(81, .5), T0 + .02)
 
 # ================= E. FIN (24,5 → 30 s) : logo et appel =================
